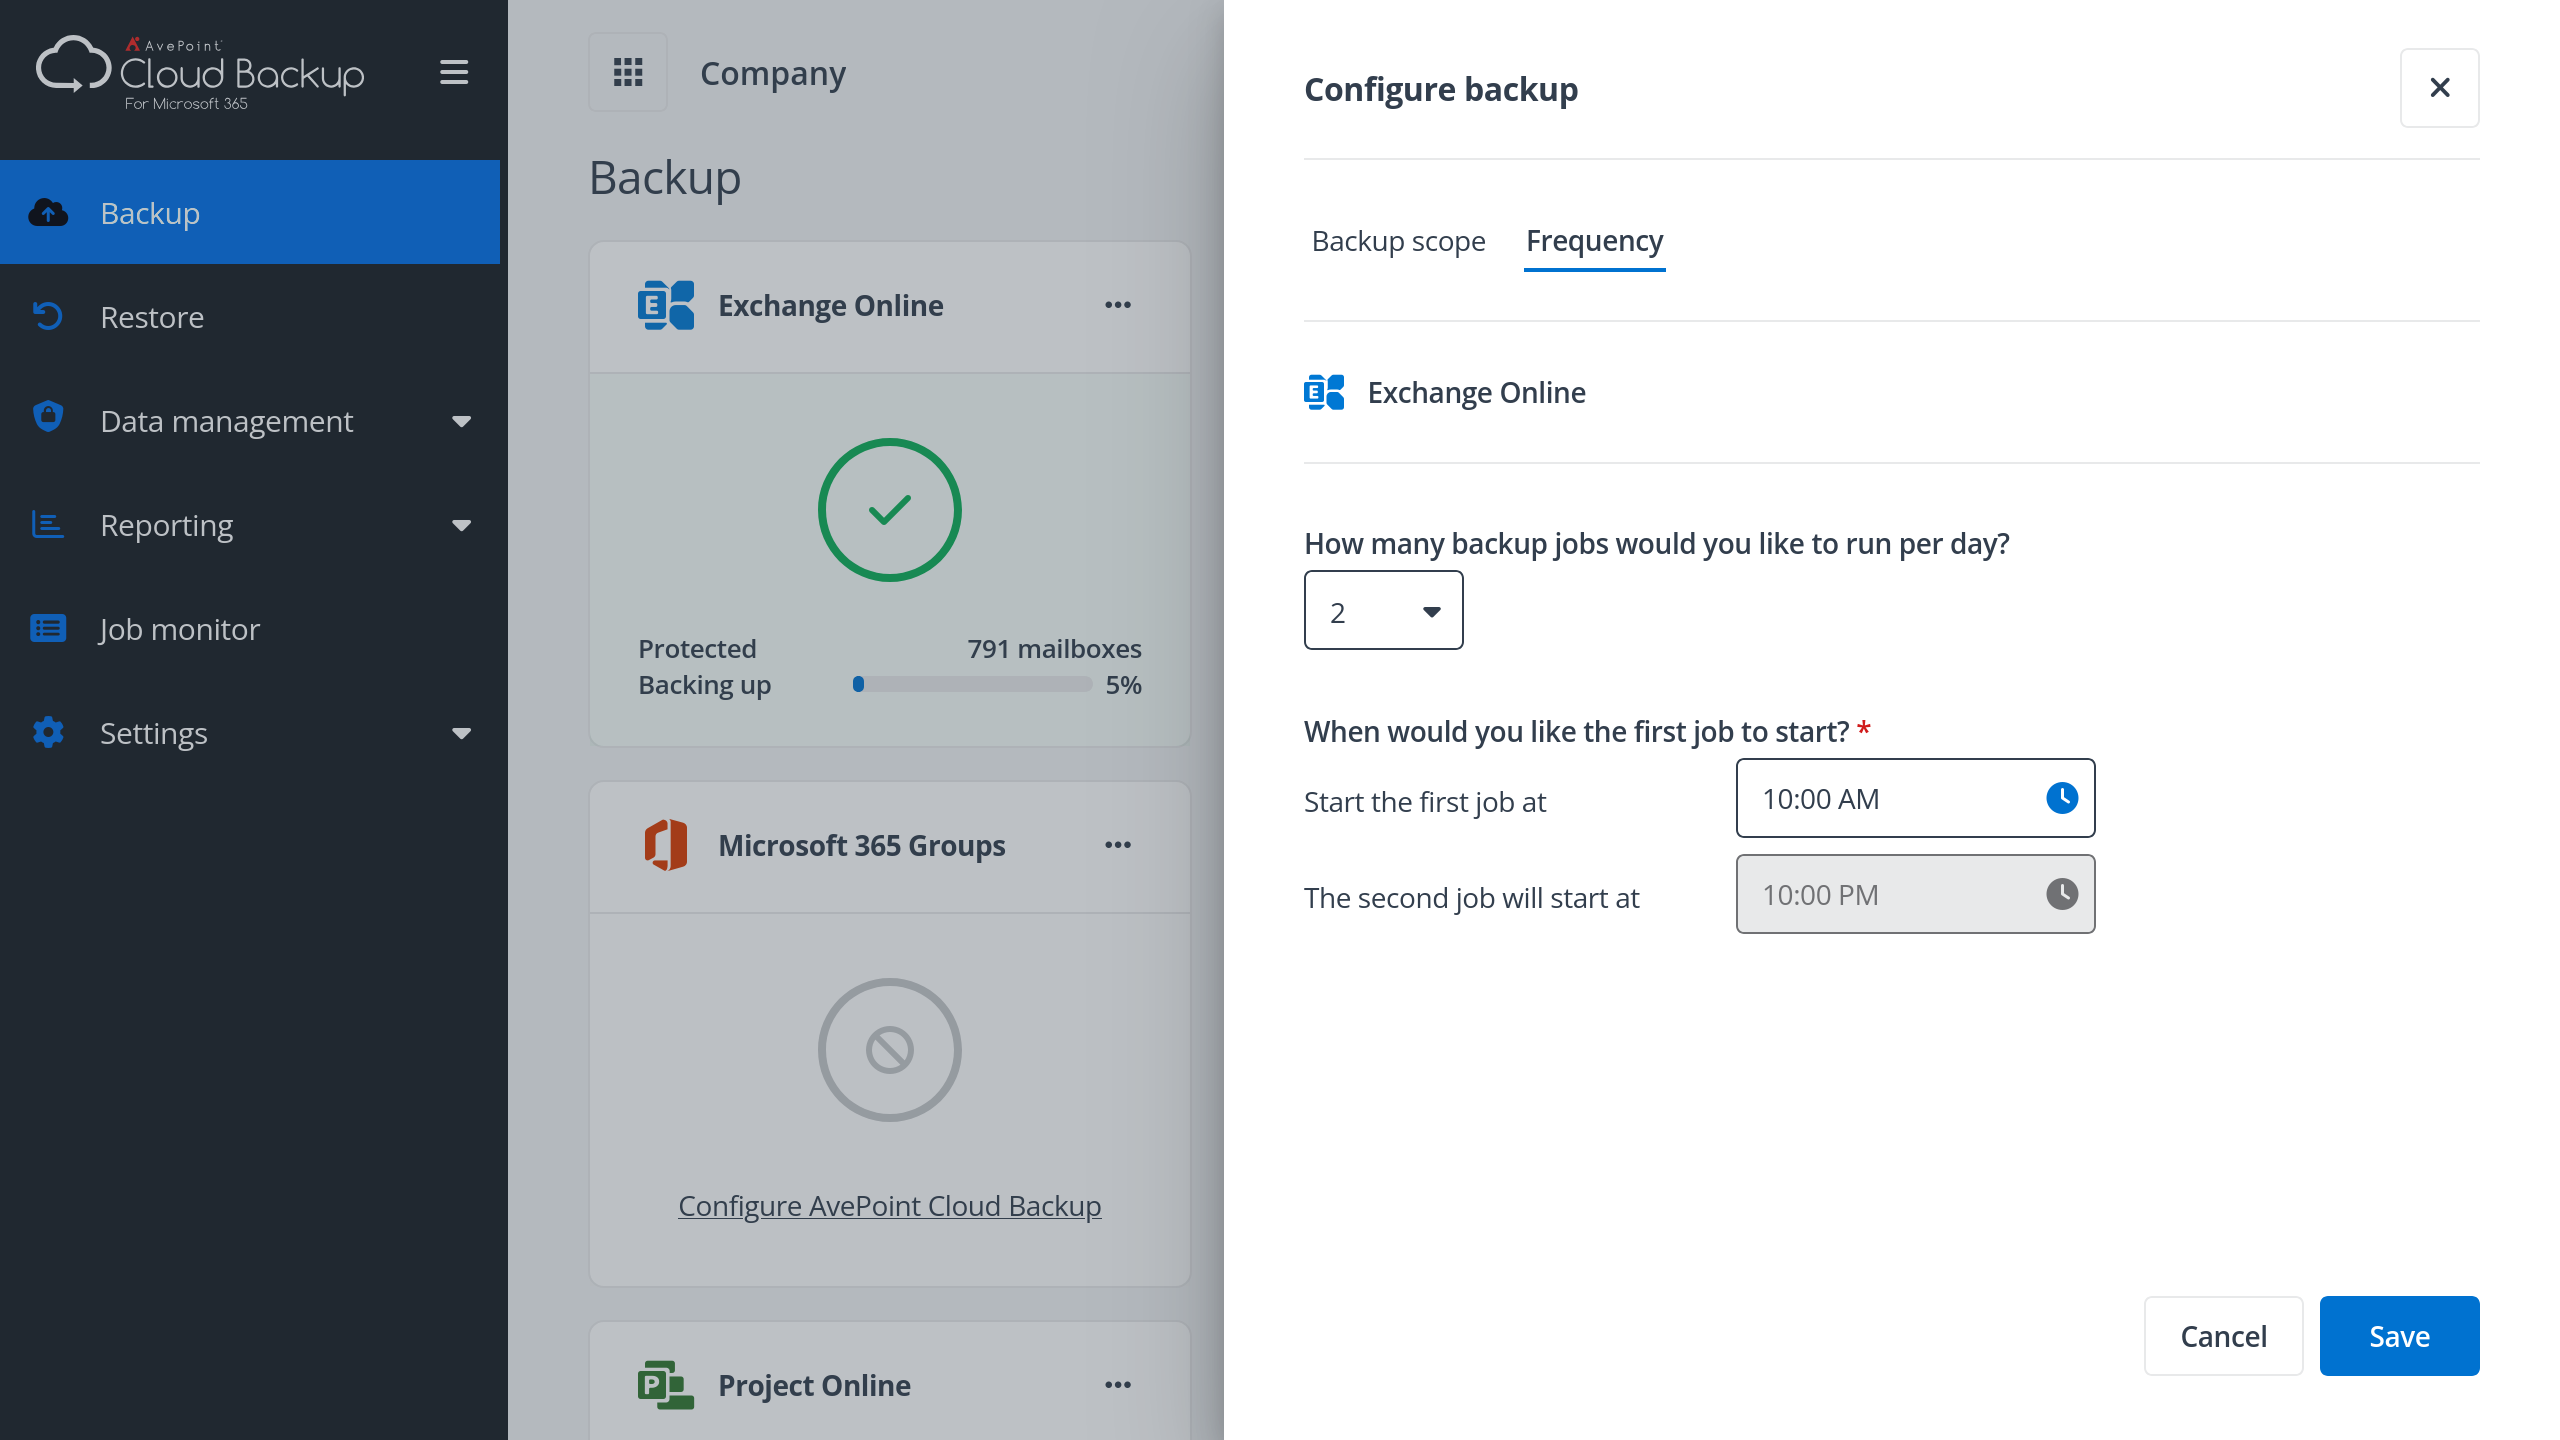
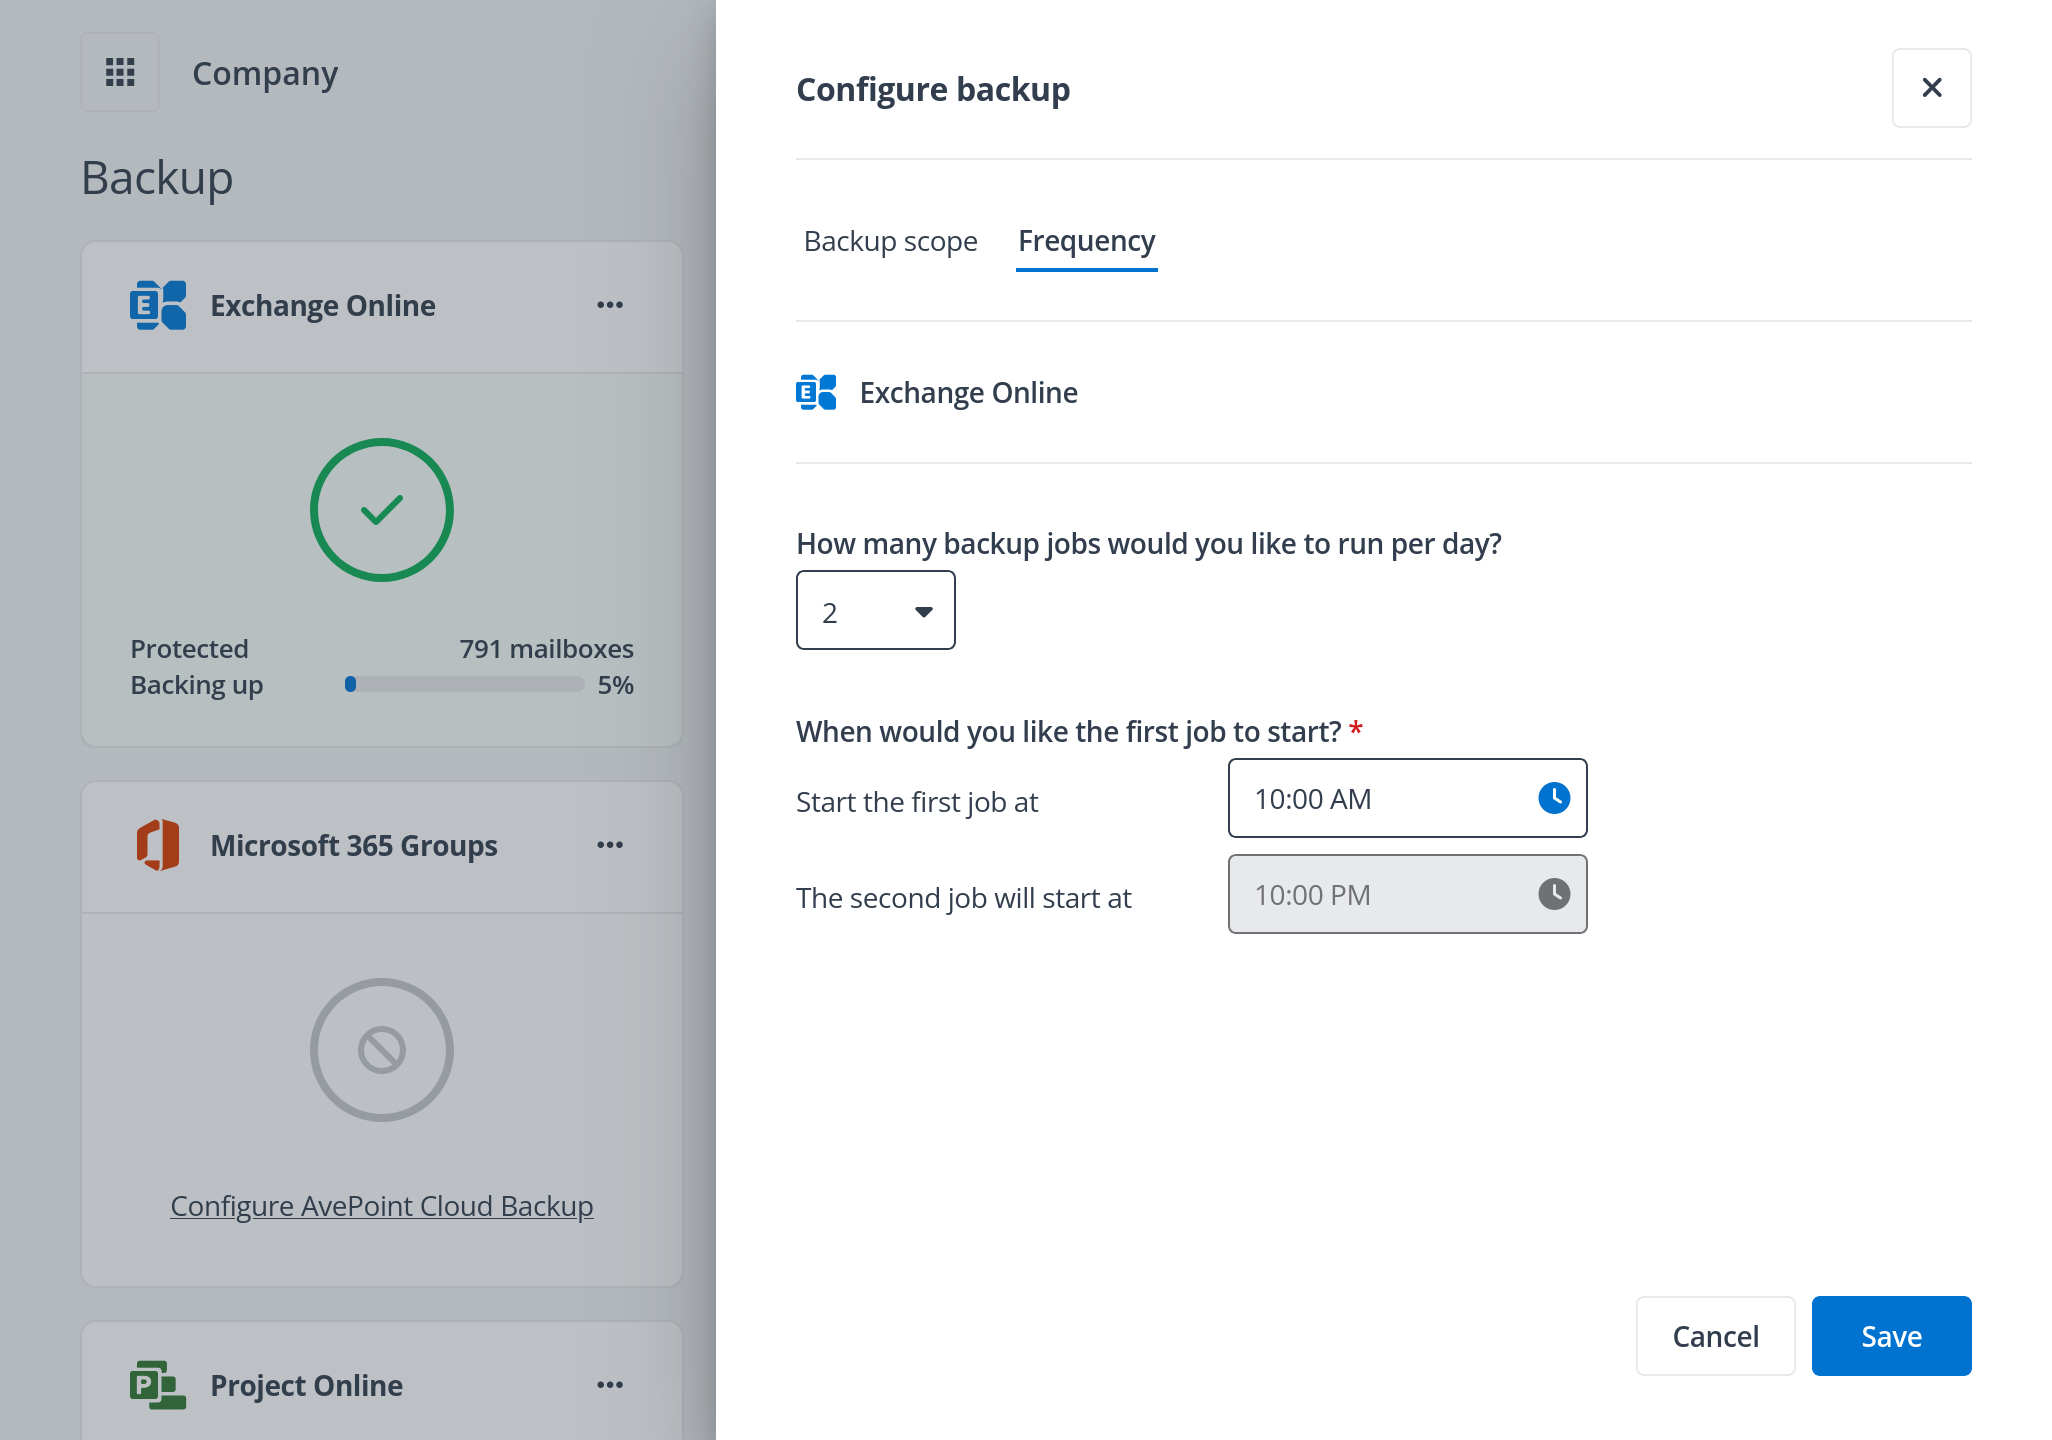
Hides AvePoint menus from screenshots due to them being outdated.

diff --git a/content/backup/cloud/user-data-recovery.md b/content/backup/cloud/user-data-recovery.md
@@ -12,20 +12,28 @@ How to Recover Data
 ---------------------
 
 1. Go to: https://www.avepointonlineservices.com/
-2. Sign in with Microsoft using your email address at your organization.
-3. Once signed in, click on **ReCenter**, the AvePoint portal to recover data.
-4. At ReCenter, click on the cloud service you wish to recover data of.
+2. **Sign in with Microsoft** using your email address at your organization.
+    
+    ![ReCenter Login](../images/avepoint-recenter-login.png)
+    
+3. Once signed in, click on **ReCenter**, the AvePoint portal for data recovery.
+
+    ![ReCenter](../images/avepoint-confidence-platform.png)
+
+4. At **ReCenter**, click on the cloud service you wish to recover data of.
    <p>
    For example, to recover emails, calendars, contacts or tasks, 
    click on <strong>Exchange Online</strong>.
    </p>
-   
+
+    ![ReCenter Home](../images/avepoint-recenter-home.png)
+
     !!! note
-        Exactly what kind of data you are allowed to restore from ReCenter 
+        Exactly what kind of data you are allowed to restore through ReCenter 
         depends on the settings the IT administration of your organization has 
         chosen. 
         If you find the options limiting, 
-        contact their IT department and ask them to help you with the recovery 
+        contact your IT department and ask them to help you with the recovery 
         process.
 
 5. Use the search function to:
@@ -36,14 +44,18 @@ How to Recover Data
    
     You can select all the search results by clicking on the checkbox in the
     top-left corner of the table.
-
+    
+    ![avepoint-recenter-search.png](../images/avepoint-recenter-search.png)
+    
 6. Once you have selected the items you wish to recover, click on **Restore**. 
    AvePoint will then start recovering the selected items to your 
    Microsoft 365 account.
 
 7. To track the progress, click on **Request History** on the menu. 
    While the recovery is running, the status should be _In progress_.
-
+    
+    ![avepoint-recenter-jobs.png](../images/avepoint-recenter-jobs.png)
+    
 8. Once the items have been recovered, the status should change to _Finished_.
 
 9. By now you should be able to access the recovered items from Microsoft 365!

diff --git a/content/backup/cloud/microsoft-365.md b/content/backup/cloud/microsoft-365.md
@@ -3,7 +3,7 @@ Microsoft 365 Backup
 
 If your organization is backing up Microsoft 365 data at Safespring, 
 you will be using the AvePoint service to manage backups and restore data. 
-The backups themselves are stored in the Safespring S3 storage.
+The backups themselves are stored in the Safespring S3 storage in Sweden.
 
 To access the administration panel, sign in at 
 <a href="https://m365backup.avepointonlineservices.com/" target="_blank">
@@ -130,8 +130,8 @@ mail client for offline reading.
     cannot sign in to their organization account.
     <p>
     To ensure that this option is available, 
-    **go to Settings → End-user restore → 
-    End-user restore settings for ReCenter and AVA users** and enable 
+    **go to Settings → End user restore → 
+    End user restore settings for ReCenter and AVA users** and enable 
     **Export (ReCenter)** for the services you wish to allow the users to 
     export data for.
     </p>
@@ -151,7 +151,3 @@ then clicking **"..." → Download content**.
 
 When exporting Microsoft Exchange data, you will receive a .pst file. 
 We have an [article on how to read .pst files](pst-files.md).
-
-Data management
-------------------
-

diff --git a/content/backup/cloud/pst-files.md b/content/backup/cloud/pst-files.md
@@ -6,17 +6,24 @@ you will receive the data as a .pst file.
 This file can contain mailboxes, contacts, calendars, or tasks.
 
 Here we explain how to extract this data on different operating 
-systems _without the need of any proprietary applications (including Outlook)_.
+systems.
 
 Extract on Windows
 --------------------
 
+To extract the .pst file on Windows, you will need to use Outlook. 
+We recommend reading the following article from <a href="https://support.microsoft.com/en-us/office/export-emails-contacts-and-calendar-items-to-outlook-using-a-pst-file-14252b52-3075-4e9b-be4e-ff9ef1068f91" target="_blank">Microsoft's Documentation</a> on how to do so.
 
 Extract on Linux (graphical)
 ------------------------------
 
 The absolutely easiest way to read the data of a .pst file on Linux is to use
-the [Evolution mail client](https://wiki.gnome.org/Apps/Evolution).
+the <a href="https://wiki.gnome.org/Apps/Evolution" target="_blank">
+Evolution mail client</a>.
+
+!!! info
+    Unlike the Windows method, 
+    extracting .pst files on Linux requires no proprietary software.
 
 ### Step 1: Installation
 
